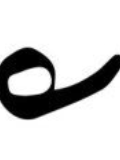
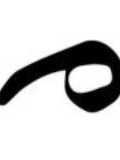
tomoki

diff --git a/index.html b/index.html
@@ -7,28 +7,55 @@
     <link rel="stylesheet" href="styles.css">
     <script defer src="https://pyscript.net/alpha/pyscript.js"></script>
     
-    <link rel="shortcut icon" href="/public/favicon.ico"> TODO favicon.cc
+    <link rel="shortcut icon" href=""> <!--TODO favicon.cc-->
 
-    SEO Search engine optimization
+    <!-- SEO Search engine optimization -->
     <title>手書きテキスト生成AI</title>
-    <meta name="description" content="TODO"> TODO
+    <meta name="description" content="TODO"> <!-- TODO -->
 
-    OGP open graph protocol 
-    <meta property="og:image" content=""> TODO fotor.com
-    <meta property="og:title" content="手書きテキスト生成AI"> TODO
-    <meta property="og:description" content=""> TODO copy from seo
+    <!-- OGP open graph protocol --> 
+    <meta property="og:image" content=""> <!-- TODO fotor.com --> 
+    <meta property="og:title" content="手書きテキスト生成AI"> <!-- TODO -->
+    <meta property="og:description" content=""> <!-- TODO copy from seo -->
+
+    <!------PYTHON------>
+    <!--IMPORT-->
+    <py-env>
+        - pandas
+        - matplotlib
+    </py-env>
 
 </head>
 <body>
-    <main class="py-5 grid gap-y-4 grid-cols-1 place-items-center">
-        <p id="title" class="text-center text-7xl"></p>
-    </main>
-    
+
+    <input type="text" name="textInput">
+    <input type="file" name="fileInput" accept="image/jpg, image/png">
+
+
+    <div id="pyoutput"></div>
+    <!--
+    <img src="" id="pyoutput">
+    -->
+    <!--
+    <h2 id="pyoutput"></h2>
+    -->
+
+    <!------PYTHON------>
     <div class="python">
-        <py-script output="title">
-            print('I love PyScript')
+        <py-script> <!--src="/ex.py"-->
+import matplotlib.pyplot as plt
+import pandas as pd
+
+df = pd.DataFrame({
+    'name': ['apple', 'orange', 'banana'],
+        'store': ['store1', 'store1', 'store2'],
+        'price': [100, 120, 200],
+    })
+fig, ax = plt.subplots()
+ax.bar(df['name'], df['price'])
+pyscript.write('pyoutput', fig)
         </py-script>
     </div>
-    
+
 </body>
 </html>

diff --git a/VScode/handwritingAI.py b/VScode/handwritingAI.py
@@ -1,0 +1,56 @@
+import os
+from PIL import Image
+import pyocr
+import pyocr.builders
+import cv2
+
+#img = cv2.imread('text.jpg')
+#cv2.imshow("aaa",img)
+#key = cv2.waitKey(0)
+
+#img = Image.open('text.jpg')
+#img.show()
+
+path_tesseract = "C:\\Program Files (x86)\\Tesseract-OCR"
+if path_tesseract not in os.environ["PATH"].split(os.pathsep):
+    os.environ["PATH"] += os.pathsep + path_tesseract
+
+tools = pyocr.get_available_tools()
+tool = tools[0]
+
+
+img = Image.open('text.jpg')
+results = tool.image_to_string(
+    img,
+    lang='eng',
+    builder=pyocr.builders.WordBoxBuilder(tesseract_layout=6)
+)
+
+img1 = cv2.imread('text.jpg')
+
+for box in results:
+
+  for i in range(len(box.content)):
+    let_num = ord(box.content[i])
+
+    if i == 0:
+      if let_num-65 >= 0 and let_num-65 <= 25:
+        text_img = cv2.imread(f'letters\letter{let_num-55}.png')
+      elif let_num-97 >= 0 and let_num-97 <= 25:
+        text_img = cv2.imread(f'letters\letter{let_num-61}.png')
+      else:
+        text_img = cv2.imread('letters\white.png')
+    else:
+      if let_num-65 >= 0 and let_num-65 <= 25:
+        adimg = cv2.imread(f'letters\letter{let_num-55}.png')
+      elif let_num-97 >= 0 and let_num-97 <= 25:
+        adimg = cv2.imread(f'letters\letter{let_num-61}.png')
+      else:
+        adimg = cv2.imread('letters\white.png')
+      text_img = cv2.hconcat([text_img, adimg])
+
+  text_img =cv2.resize(text_img,(box.position[1][0]-box.position[0][0]+2,box.position[1][1]-box.position[0][1]+2))
+  x_offset=box.position[0][0]-1
+  y_offset=box.position[0][1]-1
+  img1[y_offset:y_offset+text_img.shape[0], x_offset:x_offset+text_img.shape[1]] = text_img
+cv2.imwrite('output.png', img1)

diff --git a/VScode/ImageMaker.py b/VScode/ImageMaker.py
@@ -1,0 +1,14 @@
+import cv2
+import numpy as np
+
+#blank = np.zeros((28, 28, 3))
+#blank += 255
+#cv2.imwrite('white.png',blank)
+
+letters = cv2.imread('letters.png')
+letters = cv2.bitwise_not(letters)
+letters = cv2.rotate(letters, cv2.ROTATE_90_CLOCKWISE)
+letters = cv2.flip(letters, 1)
+for i in range(26):
+  letter = letters[2+30*i:30+30*i, 2:30]
+  cv2.imwrite(f'letter{10+i}.png', letter)

diff --git a/VScode/test.py b/VScode/test.py
@@ -1,0 +1,9 @@
+import os
+from PIL import Image
+import pyocr
+import pyocr.builders
+import cv2
+
+img_ = Image.open('letters\letter10.png')
+img_.show()
+

diff --git a/ex.py b/ex.py
@@ -1,0 +1,3 @@
+from PIL import Image
+
+img = Image.open("6.png")
